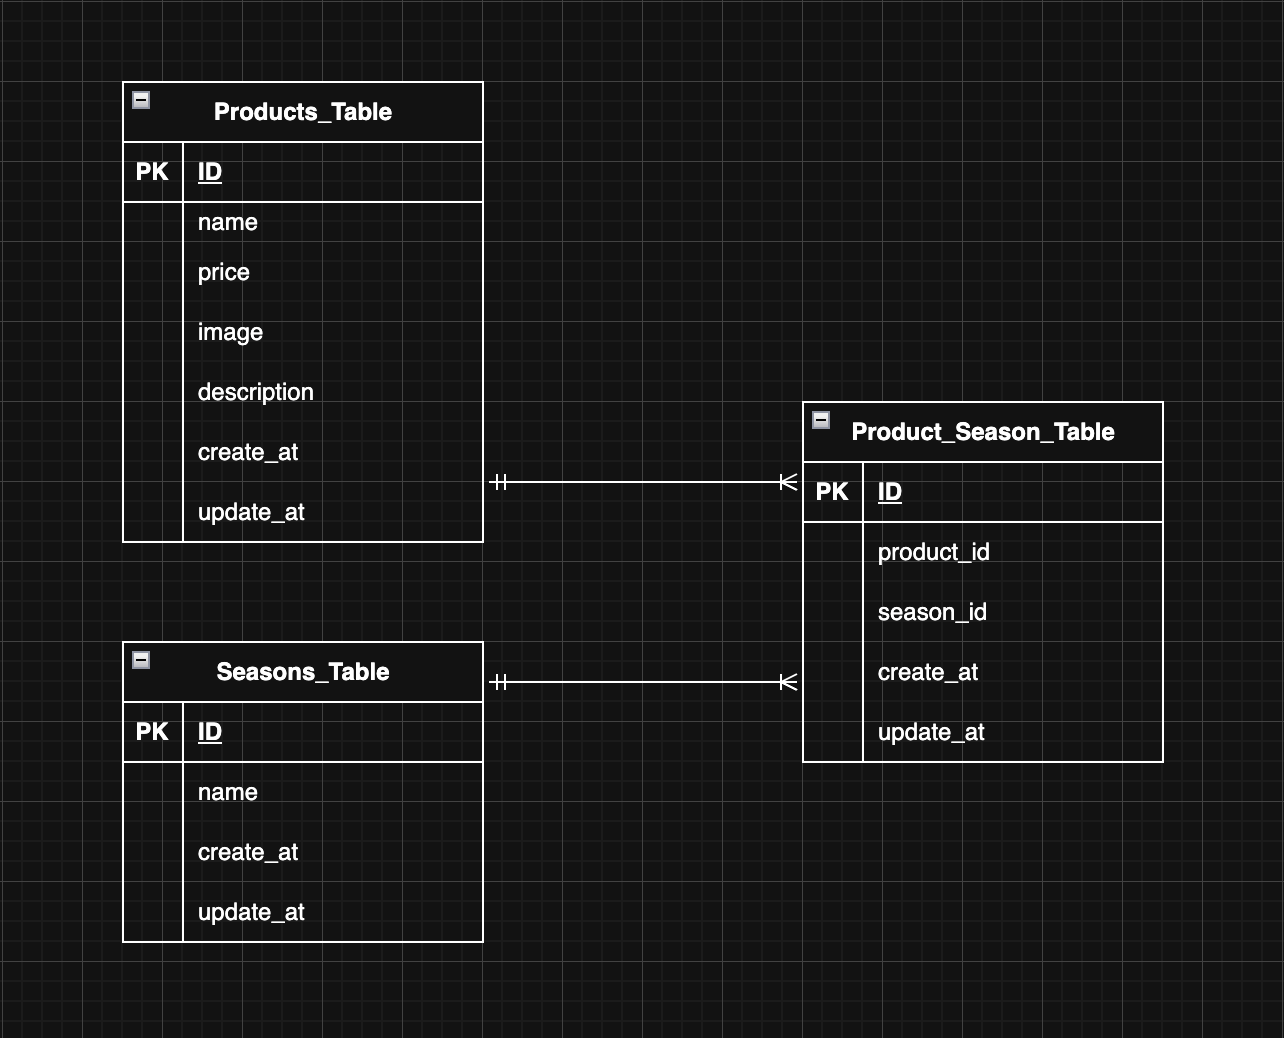
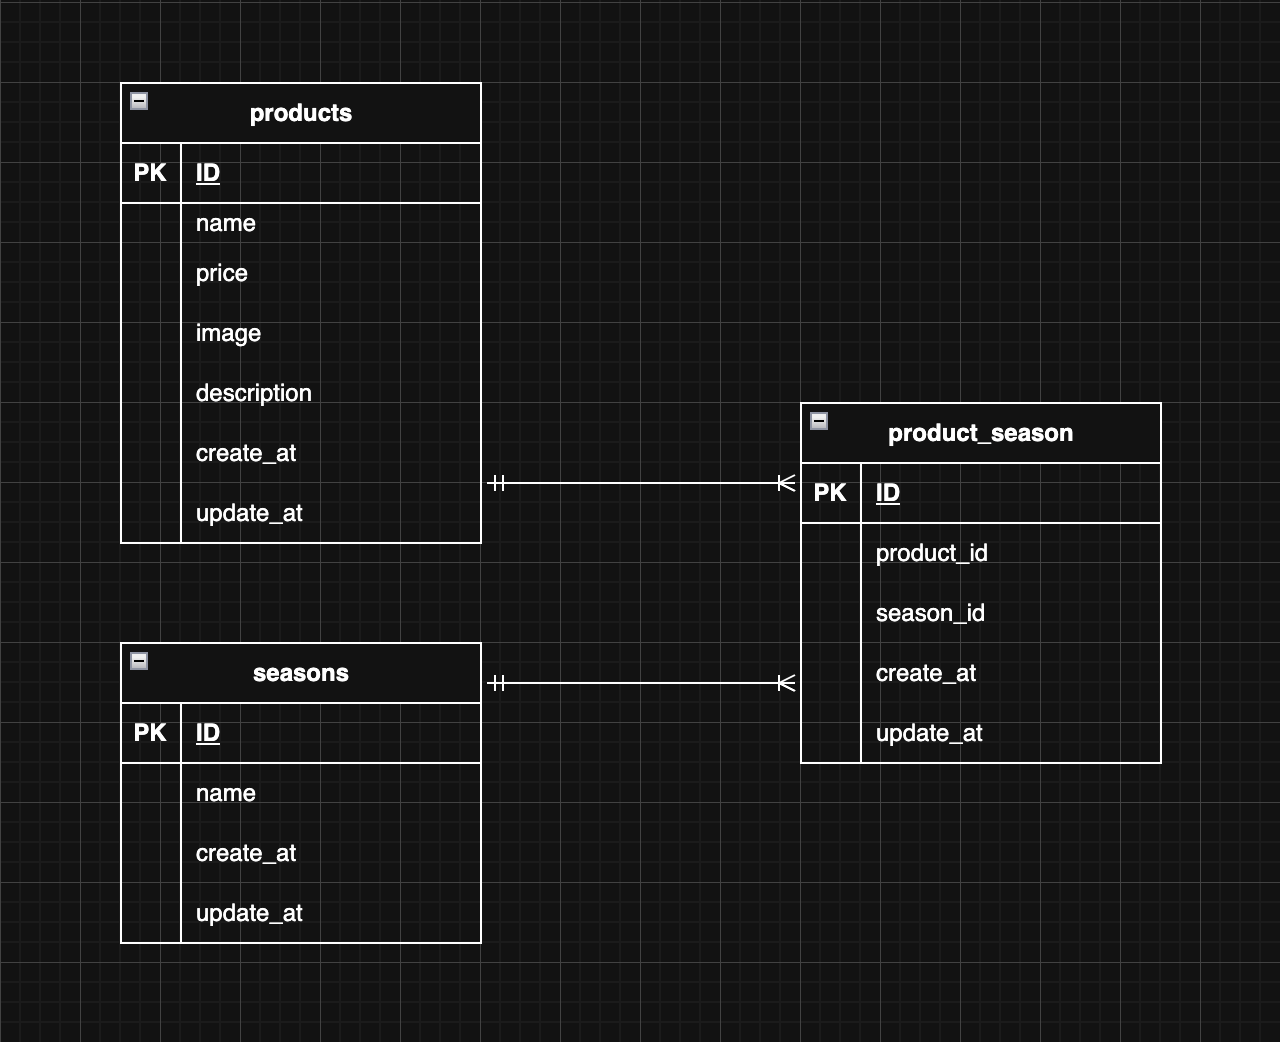
READE.MEのER図作成

diff --git a/src/database/migrations/2025_12_03_193002_create_product_season_table.php b/src/database/migrations/2025_12_03_193002_create_product_season_table.php
@@ -1,0 +1,31 @@
+<?php
+
+use Illuminate\Database\Migrations\Migration;
+use Illuminate\Database\Schema\Blueprint;
+use Illuminate\Support\Facades\Schema;
+
+class CreateProductSeasonTable extends Migration
+{
+    /**
+     * Run the migrations.
+     *
+     * @return void
+     */
+    public function up()
+    {
+        Schema::create('product_season', function (Blueprint $table) {
+            $table->id();
+            $table->timestamps();
+        });
+    }
+
+    /**
+     * Reverse the migrations.
+     *
+     * @return void
+     */
+    public function down()
+    {
+        Schema::dropIfExists('product_season');
+    }
+}

diff --git a/src/database/migrations/2025_12_03_192827_create_products_table.php b/src/database/migrations/2025_12_03_192827_create_products_table.php
@@ -1,0 +1,31 @@
+<?php
+
+use Illuminate\Database\Migrations\Migration;
+use Illuminate\Database\Schema\Blueprint;
+use Illuminate\Support\Facades\Schema;
+
+class CreateProductsTable extends Migration
+{
+    /**
+     * Run the migrations.
+     *
+     * @return void
+     */
+    public function up()
+    {
+        Schema::create('products', function (Blueprint $table) {
+            $table->id();
+            $table->timestamps();
+        });
+    }
+
+    /**
+     * Reverse the migrations.
+     *
+     * @return void
+     */
+    public function down()
+    {
+        Schema::dropIfExists('products');
+    }
+}

diff --git a/src/database/migrations/2025_12_03_192849_create_seasons_table.php b/src/database/migrations/2025_12_03_192849_create_seasons_table.php
@@ -1,0 +1,31 @@
+<?php
+
+use Illuminate\Database\Migrations\Migration;
+use Illuminate\Database\Schema\Blueprint;
+use Illuminate\Support\Facades\Schema;
+
+class CreateSeasonsTable extends Migration
+{
+    /**
+     * Run the migrations.
+     *
+     * @return void
+     */
+    public function up()
+    {
+        Schema::create('seasons', function (Blueprint $table) {
+            $table->id();
+            $table->timestamps();
+        });
+    }
+
+    /**
+     * Reverse the migrations.
+     *
+     * @return void
+     */
+    public function down()
+    {
+        Schema::dropIfExists('seasons');
+    }
+}

diff --git a/src/app/Models/Product.php b/src/app/Models/Product.php
@@ -1,0 +1,11 @@
+<?php
+
+namespace App\Models;
+
+use Illuminate\Database\Eloquent\Factories\HasFactory;
+use Illuminate\Database\Eloquent\Model;
+
+class Product extends Model
+{
+    use HasFactory;
+}

diff --git a/src/app/Models/Season.php b/src/app/Models/Season.php
@@ -1,0 +1,11 @@
+<?php
+
+namespace App\Models;
+
+use Illuminate\Database\Eloquent\Factories\HasFactory;
+use Illuminate\Database\Eloquent\Model;
+
+class Season extends Model
+{
+    use HasFactory;
+}
